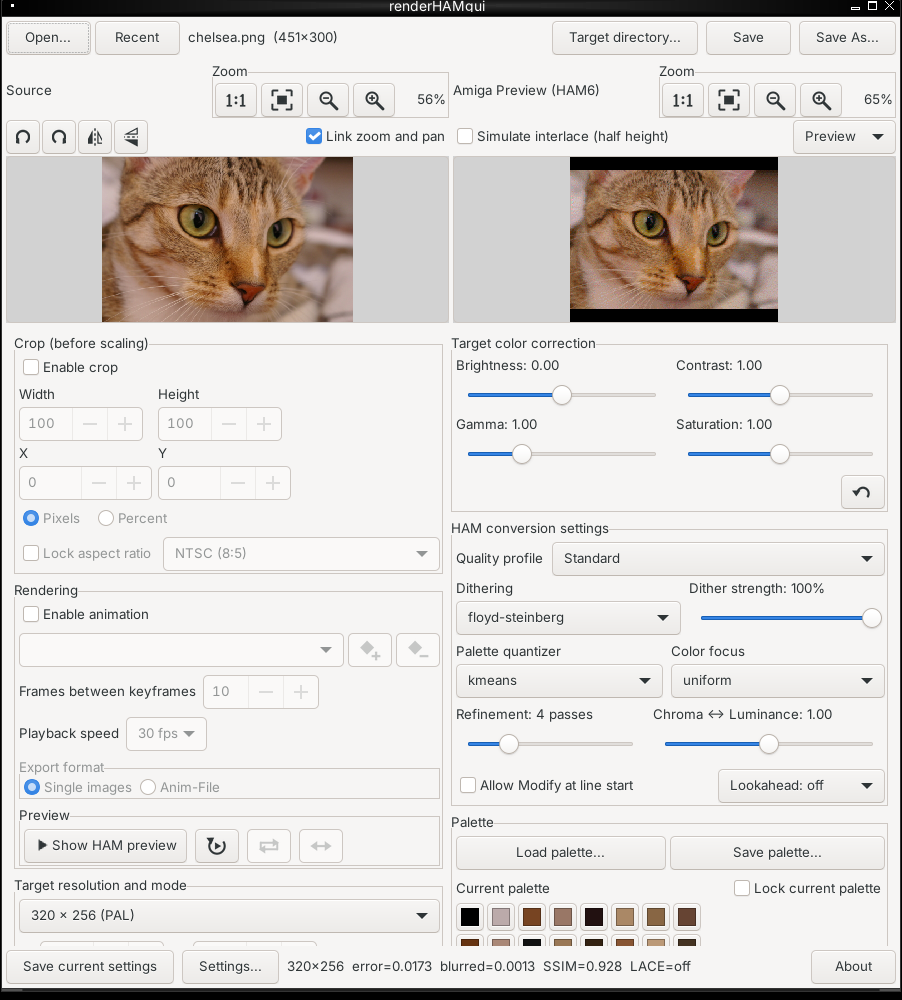
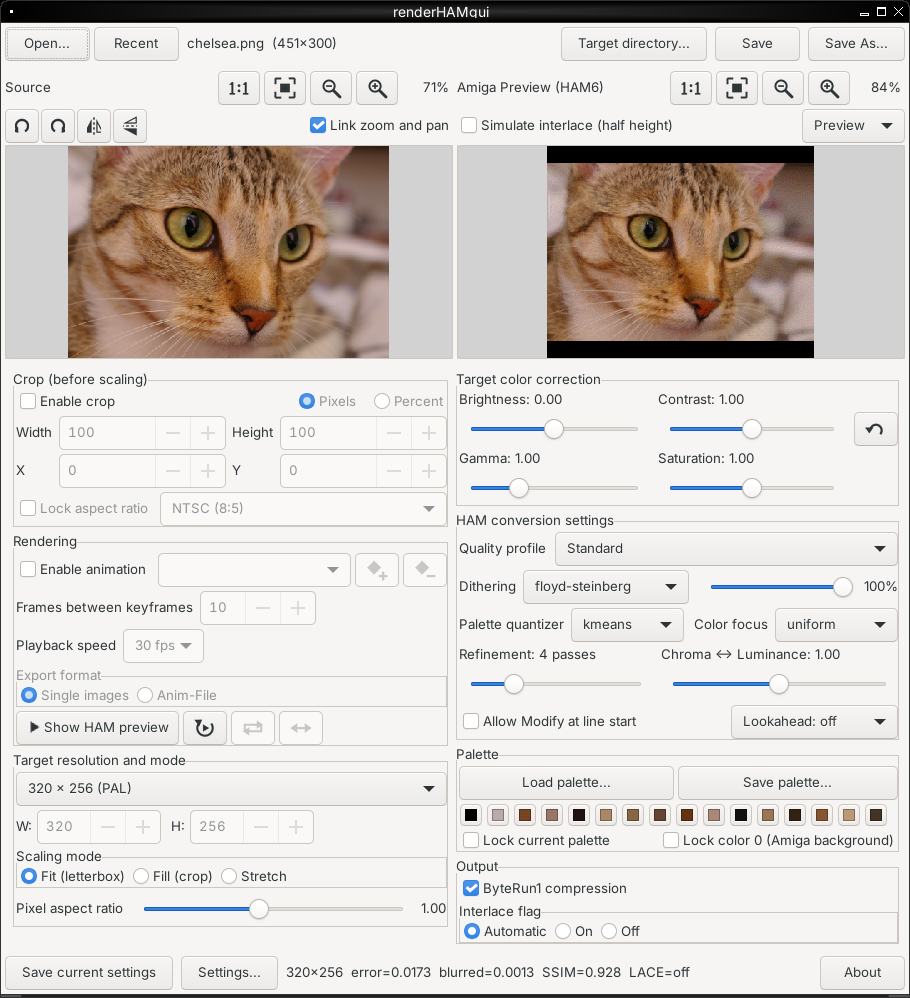
Document the compact layout: changelog entry and a new README screenshot
The screenshot shows the whole window, with all settings visible.

Claude-Session: https://claude.ai/code/session_01CoyQCAnrYGDQDaHUsR77Jj

Changed region(s): [[0.0, 0.0, 1.0, 1.0], [0.3104, 0.5902, 0.3415, 0.6212]]

diff --git a/CHANGELOG.md b/CHANGELOG.md
@@ -81,9 +81,21 @@ All notable changes to this project are documented here. The format follows
   default); untick it for the old behavior. The zoom keys (`Ctrl+=` and so on) act on the result view,
   the source follows; each view's own zoom buttons work on that view and the other follows.
 - GUI: `F6` now cycles four result views (preview, HAM map, error map, original).
+- GUI: more compact layout, so the whole window fits a 1080p screen: the settings below the pictures take
+  fewer rows (Pixels/Percent beside "Enable crop"; width, height, X and Y in two rows; "Enable animation"
+  in the row of the keyframe list; the export format, the scaling mode and the interlace flag side by
+  side; dithering with its strength, and quantizer with color focus, in one row each; the 16 palette
+  swatches in one row; the reset button of the color correction beside its sliders; the frame around the
+  preview buttons and the one around the zoom buttons are gone; smaller gaps). At 1920x1080 all settings
+  are visible and the two pictures are 260 px instead of 166 px high. The dither strength is shown as a
+  percentage only; its tooltip says what it scales.
 
 ### Fixed
 
+- The settings panel was cut off at the bottom in a window of the default size: the start height counted
+  the picture panes at their bare minimum, while the layout later keeps them at 260 px and takes the
+  difference from the settings. The default window width now also follows what the settings need, which
+  is more in German than in English.
 - The Open dialog on Linux (GTK) hid files whose extension is not lower case, such as the `IMG_0001.JPG`
   of many cameras: GTK matches the filter patterns case-sensitively. The patterns now accept every
   spelling.
